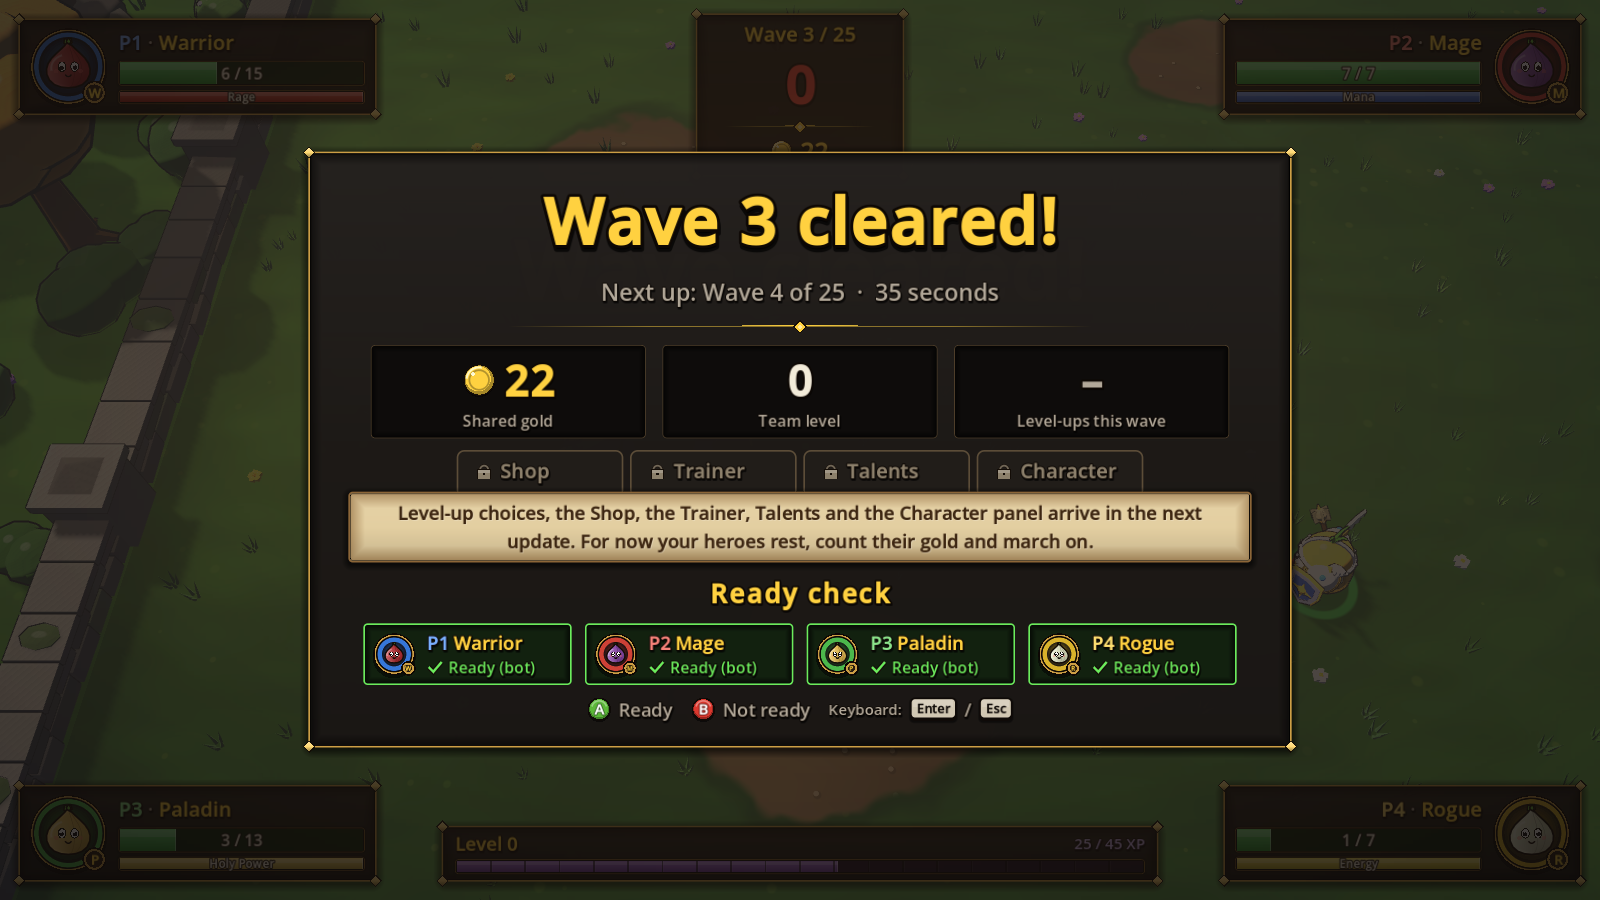
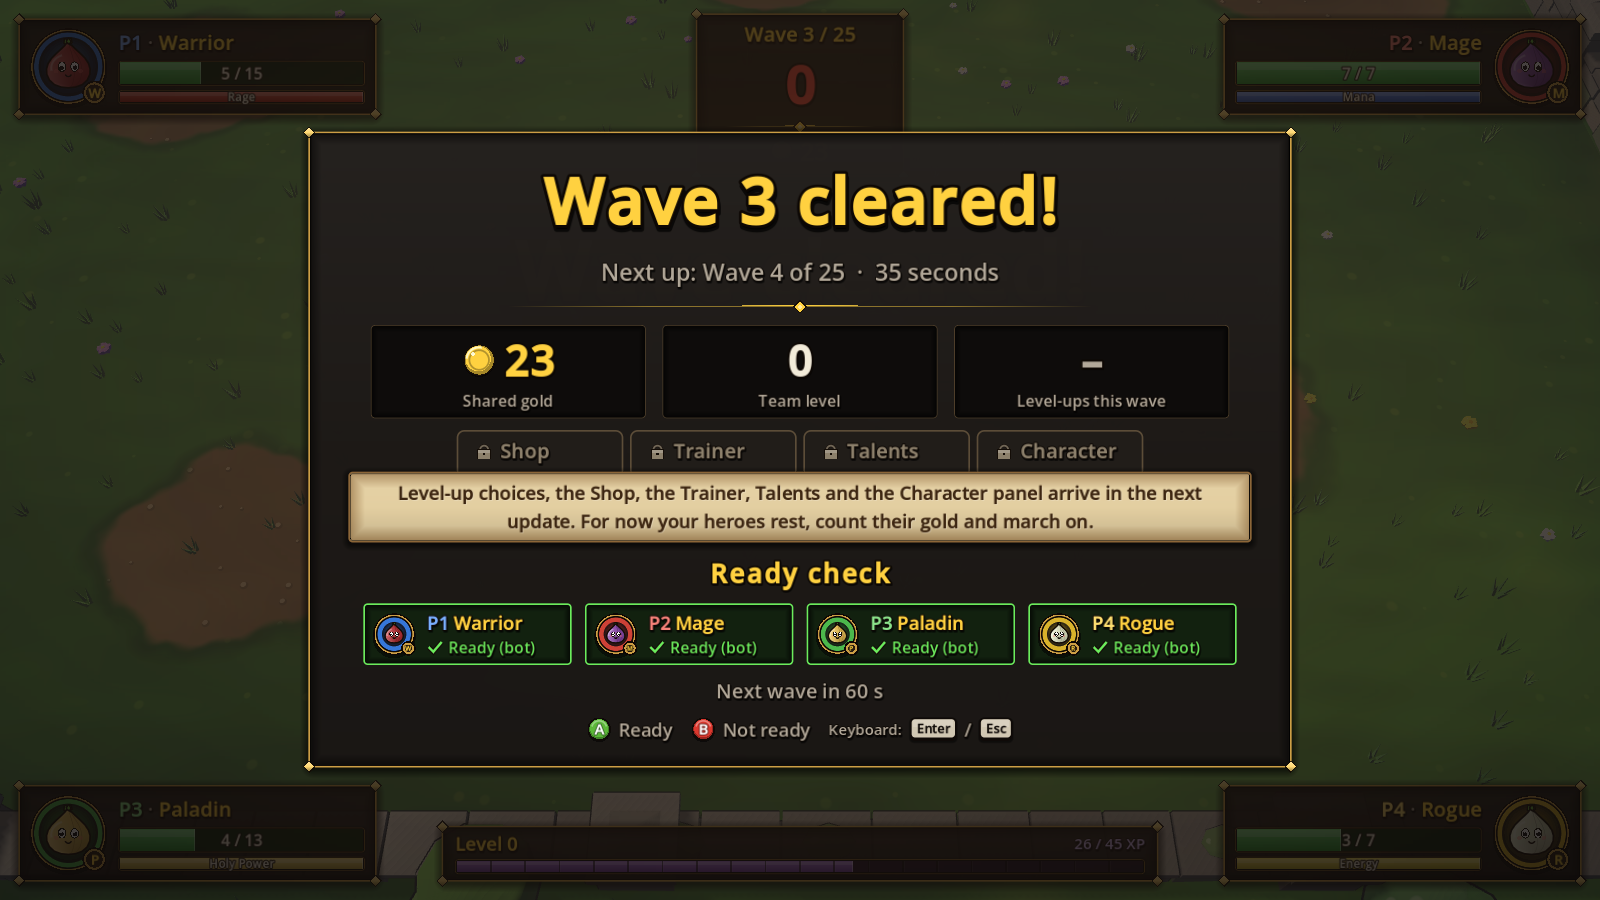
Revive 5 s with multi-reviver speed, longer late waves, screen-edge wall, intermission auto-continue
- Revive takes 5 s; each extra reviver adds +50% speed; resurrect
  column, text and 1 s invulnerability on completion
- Waves above 10 last 60 + 10 s per wave (wave 25 = 210 s)
- Players cannot walk out of the shared camera view
- Between-wave screen auto-continues after 60 s (configurable)

Claude-Session: https://claude.ai/code/session_01N5df4hKuxXpYDQ7RPCfU8h

diff --git a/docs/ARCHITECTURE.md b/docs/ARCHITECTURE.md
@@ -65,14 +65,20 @@ the new screen never sees the button press that closed the old one.
    players back on `arena.get_player_spawn_points()`, `player.begin_wave()` (heal / 50%
    return), `wave_director.start_wave(n)`, `arena.camera.snap()`, "Wave n" banner.
    - A player at 0 HP is **downed**; a living teammate standing within `REVIVE_RADIUS` for
-     `REVIVE_TIME` revives them at 30% HP (cast bar in the reviver's colour, channel beam,
-     `Vfx.resurrect_column`). Everybody downed at once → GAME_OVER (defeat).
-     Solo: downed = defeat.
+     `REVIVE_TIME` (5 s) revives them at 30% HP. Every additional living reviver in the
+     circle adds +50% speed (`Player.revive_speed(n)`: 1 → 1×, 2 → 1.5×, 3 → 2×); with
+     nobody in the circle the progress drains slowly (`REVIVE_DECAY_PER_SECOND`); taking
+     damage never interrupts it. Cast bar in the reviver's colour with the time left at the
+     current speed (`Player.revive_seconds_left()`), channel beam; on completion
+     `Vfx.resurrect_column` at the feet, "Resurrected!" and `INVULNERABLE_AFTER_REVIVE`
+     (1 s). Everybody downed at once → GAME_OVER (defeat). Solo: downed = defeat.
 4. **wave_cleared** (the director already stopped: enemies despawned, loot banked) →
    **WAVE_END** ("Wave cleared!" banner, `Main.WAVE_END_DELAY` = 1.6 s, players can still
    move) → if n == 25 → GAME_OVER (victory), else **INTERMISSION** (tree paused,
    `Intermission.open(n, RunState.pending_level_ups)`, players ready with A, bots and unplugged
-   devices auto-ready) → `pending_level_ups = 0` (choices arrive in M4) → wave n+1.
+   devices auto-ready; after `Intermission.auto_continue_time` – default
+   `AUTO_CONTINUE_TIME` = 60 s, ≤ 0 switches it off – the next wave starts even if not
+   everyone is ready) → `pending_level_ups = 0` (choices arrive in M4) → wave n+1.
 5. **GAME_OVER** – `RunState.end_run(victory)`, tree paused, HUD hidden,
    `GameOverScreen.open(victory)`. A / START → **LOBBY with the same players** (ready again);
    the main menu only through the lobby's Back.
@@ -110,7 +116,9 @@ the new screen never sees the button press that closed the old one.
 
 ## Waves (WaveDirector)
 
-- Duration `RunState.wave_duration(w)`. Spawn budget per second
+- Duration `RunState.wave_duration(w)` (GDD 1): waves 1–10 `min(60, 20 + 5 * (w - 1))` s,
+  above 10 `60 + 10 * (w - 10)` s (11 → 70 s, 15 → 110 s, 20 → 160 s, 25 → 210 s; a full
+  run is 42 minutes of fighting). Spawn budget per second
   `(0.9 + 0.22 * (w - 1)) * RunState.coop_count_mult()`; weighted pick among enemies with
   `first_wave <= w`; group size in `[group_min, group_max]`; position = random arena point
   ≥ 6 m from every living player; `Vfx.spawn_telegraph` 1 s before the group appears.
@@ -164,8 +172,13 @@ Screenshots of every screen: `docs/screenshots/{menu,lobby,gameplay,intermission
     glowing hands and a light beam connects it to the ghost.
   - `Vfx.resurrect_column(feet_pos)` – shaft of light from the sky when a revive completes.
   - `CameraRig.get_walk_rect(player)` – shared screen (GDD 13): the rectangle a player may
-    walk in so nobody leaves the screen once the camera is fully zoomed out (in the MVP
-    arena it never binds: the whole arena fits at `MAX_DISTANCE`).
+    walk in so nobody leaves the screen once the camera is fully zoomed out. `Player` clamps
+    its motion to it every tick (when `Arena.current.camera` is in the tree) and slides
+    along the edge (`Player.clamp_motion_to_rect`: a body already outside is never pushed,
+    only kept from going further out). For living players it binds only when the team
+    spreads wider than the fully zoomed-out view (never in the MVP arena: the whole arena
+    fits at `MAX_DISTANCE`); a ghost, which the camera does not follow, is kept inside the
+    current view.
   - `Arena.get_view_rect()` – what the camera may show (smaller margin towards the camera).
 - Art showcase (dev tool, renders a PNG under Xvfb):
   `xvfb-run -a -s "-screen 0 1920x1080x24" godot --path . --rendering-driver opengl3 -s res://tools/showcase/showcase.gd -- --view=gameplay --out=/tmp/shot.png`
@@ -202,6 +215,9 @@ Screenshots of every screen: `docs/screenshots/{menu,lobby,gameplay,intermission
   ignore the input of the frame they were opened on (Game Over: the first
   `INPUT_DELAY` = 1 s) and emit their signal once per `open()`. Intermission: humans ready with
   A / START, unready with B; bots (`is_bot()`) and unplugged devices are auto-ready.
+  A "Next wave in 42 s" line counts down `Intermission.auto_continue_time` (static setting,
+  default 60 s, ≤ 0 = off and hidden – the settings menu comes later); at 0 it emits
+  `continue_requested` without the stragglers.
   PauseMenu: `process_mode` ALWAYS, only the pausing player navigates, their B or any
   player's START resumes; it hides itself when it emits. Intermission / Game Over / Pause
   also run with `process_mode` ALWAYS, so Main may pause the tree behind them.
